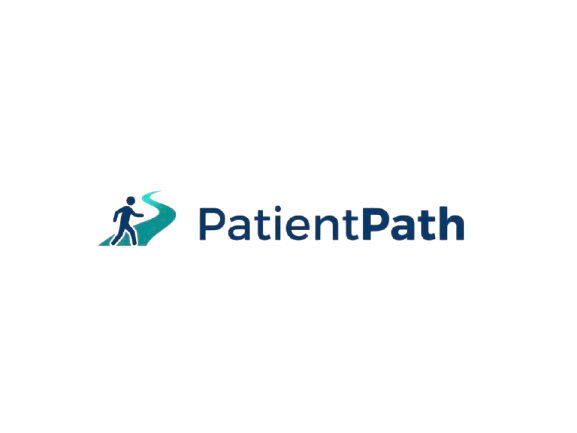
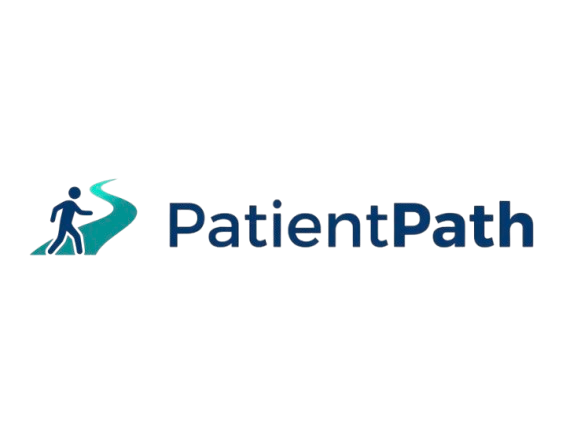
Improve responsive dashboard sidebar

Changed region(s): [[0.0312, 0.4203, 0.9359, 0.6005]]

diff --git a/app/ui/dashboard-shell.tsx b/app/ui/dashboard-shell.tsx
@@ -8,7 +8,7 @@ import { gsap } from 'gsap'
 import { logout } from '@/app/actions/auth'
 import type { DashboardRole } from '@/app/lib/dashboard-types'
 import { ROLE_LABELS } from '@/app/lib/roles'
-import { IconLogout } from '@/app/ui/icons'
+import { IconClose, IconLogout, IconMenu } from '@/app/ui/icons'
 import { NotificationBell } from '@/app/ui/notification-bell'
 
 type NavItem = {
@@ -43,17 +43,39 @@ export function DashboardShell({
     }
   }, [])
 
+  useEffect(() => {
+    if (!mobileOpen) return
+
+    const originalOverflow = document.body.style.overflow
+    document.body.style.overflow = 'hidden'
+
+    function handleKeyDown(event: KeyboardEvent) {
+      if (event.key === 'Escape') setMobileOpen(false)
+    }
+
+    window.addEventListener('keydown', handleKeyDown)
+
+    return () => {
+      document.body.style.overflow = originalOverflow
+      window.removeEventListener('keydown', handleKeyDown)
+    }
+  }, [mobileOpen])
+
   function isActive(href: string) {
     if (href === '/dashboard') return pathname === '/dashboard'
     return pathname.startsWith(href)
+  }
+
+  function closeMobileNav() {
+    setMobileOpen(false)
   }
 
   return (
     <div className="min-h-screen bg-background">
       <div className="flex min-h-screen w-full flex-col lg:flex-row">
         {/* Mobile header */}
-        <div className="flex items-center justify-between border-b border-border bg-surface px-4 py-3 lg:hidden">
-          <div className="flex items-center">
+        <div className="sticky top-0 z-30 flex items-center justify-between gap-3 border-b border-border bg-surface/95 px-4 py-3 shadow-sm backdrop-blur lg:hidden">
+          <Link href="/dashboard" onClick={closeMobileNav} className="flex min-w-0 items-center">
             <Image
               src="/PatientPath.png"
               alt="Logo"
@@ -61,89 +83,126 @@ export function DashboardShell({
               height={42}
               priority
               style={{ width: 'auto', height: 32 }}
-              className="h-8 w-auto object-contain"
+              className="h-8 max-w-[150px] object-contain"
             />
-          </div>
+          </Link>
           <div className="flex items-center gap-2">
             <NotificationBell />
             <button
-              onClick={() => setMobileOpen(!mobileOpen)}
-              className="rounded-lg p-2 text-muted hover:bg-surface-elevated hover:text-primary"
+              type="button"
+              onClick={() => setMobileOpen(true)}
+              aria-controls="dashboard-sidebar"
+              aria-expanded={mobileOpen}
+              aria-label="Open navigation menu"
+              className="inline-flex h-10 w-10 items-center justify-center rounded-lg border border-border text-muted transition-all hover:border-accent/40 hover:bg-surface-elevated hover:text-primary focus:outline-none focus:ring-2 focus:ring-accent/40"
             >
-              <svg className="h-5 w-5" fill="none" viewBox="0 0 24 24" strokeWidth={1.5} stroke="currentColor">
-                <path strokeLinecap="round" strokeLinejoin="round" d="M3.75 6.75h16.5M3.75 12h16.5m-16.5 5.25h16.5" />
-              </svg>
+              <IconMenu className="h-5 w-5" />
             </button>
           </div>
         </div>
 
+        <button
+          type="button"
+          aria-label="Close navigation menu"
+          onClick={() => setMobileOpen(false)}
+          className={`${mobileOpen ? 'block' : 'hidden'} fixed inset-0 z-40 bg-primary/35 backdrop-blur-[2px] lg:hidden`}
+        />
+
         {/* Sidebar */}
         <aside
+          id="dashboard-sidebar"
           ref={sidebarRef}
-          className={`${mobileOpen ? 'block' : 'hidden'} border-b border-border bg-surface px-4 py-4 shadow-sm lg:sticky lg:top-0 lg:flex lg:h-screen lg:w-64 lg:shrink-0 lg:flex-col lg:border-b-0 lg:border-r lg:px-4 lg:py-5`}
+          className={`${mobileOpen ? 'flex' : 'hidden'} fixed inset-y-0 left-0 z-50 h-dvh w-[calc(100vw-2rem)] max-w-80 flex-col border-r border-border bg-surface shadow-2xl lg:sticky lg:top-0 lg:z-auto lg:flex lg:h-screen lg:w-72 lg:max-w-none lg:shrink-0 lg:shadow-sm`}
         >
+          <div className="flex items-center justify-between gap-3 border-b border-border px-4 py-4 lg:hidden">
+            <Link href="/dashboard" onClick={closeMobileNav} className="flex min-w-0 items-center">
+              <Image
+                src="/PatientPath.png"
+                alt="Logo"
+                width={140}
+                height={42}
+                priority
+                style={{ width: 'auto', height: 32 }}
+                className="h-8 max-w-[150px] object-contain"
+              />
+            </Link>
+            <button
+              type="button"
+              onClick={() => setMobileOpen(false)}
+              aria-label="Close navigation menu"
+              className="inline-flex h-10 w-10 items-center justify-center rounded-lg border border-border text-muted transition-all hover:border-accent/40 hover:bg-surface-elevated hover:text-primary focus:outline-none focus:ring-2 focus:ring-accent/40"
+            >
+              <IconClose className="h-5 w-5" />
+            </button>
+          </div>
+
           {/* Logo */}
-          <div className="hidden lg:block">
-            <div className="flex flex-col items-center text-center gap-2 px-2 pb-5 border-b border-border">
+          <div className="hidden border-b border-border px-4 py-5 lg:block">
+            <Link href="/dashboard" onClick={closeMobileNav} className="flex flex-col items-center gap-2 text-center">
               <Image
                 src="/PatientPath.png"
                 alt="Logo"
                 width={150}
                 height={45}
                 priority
-                style={{ width: '100%', maxWidth: '130px', height: 'auto' }}
+                style={{ width: '100%', maxWidth: '140px', height: 'auto' }}
                 className="object-contain"
               />
-              <p className="text-[11px] text-muted px-1">{roleLabel}</p>
-            </div>
+              <span className="max-w-full text-balance text-xs text-muted">{roleLabel}</span>
+            </Link>
           </div>
 
           {/* Nav */}
-          <nav className="mt-4 flex flex-col gap-0.5">
-            {nav.map((item) => {
-              const active = isActive(item.href)
-              return (
-                <Link
-                  key={item.href}
-                  href={item.href}
-                  onClick={() => setMobileOpen(false)}
-                  className={`group flex items-center gap-3 rounded-lg px-3 py-2.5 text-sm font-medium transition-all ${
-                    active
-                      ? 'bg-accent/10 text-accent'
-                      : 'text-primary-soft hover:bg-surface-elevated hover:text-primary'
-                  }`}
-                >
-                  <span className={active ? 'text-accent' : 'text-muted group-hover:text-accent'}>{item.icon}</span>
-                  {item.label}
-                  {active && <div className="ml-auto h-1.5 w-1.5 rounded-full bg-accent" />}
-                </Link>
-              )
-            })}
+          <nav className="flex-1 overflow-y-auto px-3 py-4" aria-label="Dashboard navigation">
+            <div className="flex flex-col gap-1">
+              {nav.map((item) => {
+                const active = isActive(item.href)
+                return (
+                  <Link
+                    key={item.href}
+                    href={item.href}
+                    onClick={closeMobileNav}
+                    aria-current={active ? 'page' : undefined}
+                    className={`group flex min-h-11 items-center gap-3 rounded-lg px-3 py-2.5 text-sm font-medium leading-5 transition-all focus:outline-none focus:ring-2 focus:ring-accent/40 ${
+                      active
+                        ? 'bg-accent/10 text-accent'
+                        : 'text-primary-soft hover:bg-surface-elevated hover:text-primary'
+                    }`}
+                  >
+                    <span className={`shrink-0 ${active ? 'text-accent' : 'text-muted group-hover:text-accent'}`}>{item.icon}</span>
+                    <span className="min-w-0 flex-1 break-words">{item.label}</span>
+                    {active && <span className="h-1.5 w-1.5 shrink-0 rounded-full bg-accent" />}
+                  </Link>
+                )
+              })}
+            </div>
+
+            <div className="mt-4 border-t border-border pt-4">
+              <Link href="/support" onClick={closeMobileNav} className="block rounded-lg px-3 py-2.5 text-sm font-medium text-primary-soft transition-all hover:bg-surface-elevated hover:text-primary focus:outline-none focus:ring-2 focus:ring-accent/40">
+                Contact Support
+              </Link>
+              <Link href="/about" onClick={closeMobileNav} className="block rounded-lg px-3 py-2.5 text-sm font-medium text-primary-soft transition-all hover:bg-surface-elevated hover:text-primary focus:outline-none focus:ring-2 focus:ring-accent/40">
+                About
+              </Link>
+            </div>
           </nav>
 
-          <div className="mt-4 border-t border-border pt-4">
-            <Link href="/support" className="block rounded-lg px-3 py-2 text-sm font-medium text-primary-soft hover:bg-surface-elevated hover:text-primary">
-              Contact Support
-            </Link>
-            <Link href="/about" className="block rounded-lg px-3 py-2 text-sm font-medium text-primary-soft hover:bg-surface-elevated hover:text-primary">
-              About
-            </Link>
-          </div>
-
           {/* User section */}
-          <div className="mt-auto pt-5 hidden lg:block border-t border-border">
-            <div className="flex items-center justify-between px-2">
-              <div>
-                <p className="text-sm font-semibold text-primary">{username}</p>
+          <div className="border-t border-border px-4 py-4">
+            <div className="flex items-center justify-between gap-3">
+              <div className="min-w-0">
+                <p className="truncate text-sm font-semibold text-primary">{username}</p>
                 <p className="text-[11px] text-muted">{roleLabel}</p>
               </div>
-              <NotificationBell />
+              <div className="hidden lg:block">
+                <NotificationBell />
+              </div>
             </div>
 
             <form action={logout} className="mt-3">
               <button
                 type="submit"
-                className="flex w-full items-center justify-center gap-2 rounded-lg border border-border px-3 py-2 text-sm font-medium text-muted transition-all hover:border-danger/40 hover:bg-danger/5 hover:text-danger"
+                className="flex min-h-10 w-full items-center justify-center gap-2 rounded-lg border border-border px-3 py-2 text-sm font-medium text-muted transition-all hover:border-danger/40 hover:bg-danger/5 hover:text-danger focus:outline-none focus:ring-2 focus:ring-danger/20"
               >
                 <IconLogout className="w-4 h-4" />
                 Log out

diff --git a/app/reset-password/[token]/page.tsx b/app/reset-password/[token]/page.tsx
@@ -1,3 +1,4 @@
+import Image from 'next/image'
 import Link from 'next/link'
 import { ResetPasswordForm } from '@/app/ui/password-reset-forms'
 
@@ -15,7 +16,18 @@ export default async function ResetPasswordPage({
       <div className="mx-auto max-w-md space-y-6">
         <div>
           <Link href="/login" className="text-sm font-medium text-accent hover:text-accent-bright">Back to login</Link>
-          <h1 className="mt-4 text-3xl font-bold text-primary">Choose New Password</h1>
+          <div className="mt-4 mb-2">
+            <Image
+              src="/PatientPath.png"
+              alt="PatientPath"
+              width={200}
+              height={60}
+              priority
+              style={{ width: '100%', maxWidth: '180px', height: 'auto' }}
+              className="object-contain"
+            />
+          </div>
+          <h1 className="mt-2 text-3xl font-bold text-primary">Choose New Password</h1>
           <p className="mt-2 text-sm text-muted">Use the secure link from your reset email to set a new password.</p>
         </div>
         <ResetPasswordForm token={token} />

diff --git a/app/reset-password/page.tsx b/app/reset-password/page.tsx
@@ -1,3 +1,4 @@
+import Image from 'next/image'
 import Link from 'next/link'
 import { RequestPasswordResetForm } from '@/app/ui/password-reset-forms'
 
@@ -9,7 +10,18 @@ export default function ResetPasswordRequestPage() {
       <div className="mx-auto max-w-md space-y-6">
         <div>
           <Link href="/login" className="text-sm font-medium text-accent hover:text-accent-bright">Back to login</Link>
-          <h1 className="mt-4 text-3xl font-bold text-primary">Reset Password</h1>
+          <div className="mt-4 mb-2">
+            <Image
+              src="/PatientPath.png"
+              alt="PatientPath"
+              width={200}
+              height={60}
+              priority
+              style={{ width: '100%', maxWidth: '180px', height: 'auto' }}
+              className="object-contain"
+            />
+          </div>
+          <h1 className="mt-2 text-3xl font-bold text-primary">Reset Password</h1>
           <p className="mt-2 text-sm text-muted">Enter your email or username to receive a secure reset link.</p>
         </div>
         <RequestPasswordResetForm />

diff --git a/app/support/page.tsx b/app/support/page.tsx
@@ -1,3 +1,4 @@
+import Image from 'next/image'
 import Link from 'next/link'
 import { getSession } from '@/app/lib/session'
 import { SupportForm } from '@/app/ui/support-form'
@@ -14,7 +15,18 @@ export default async function SupportPage() {
           <Link href={session ? '/dashboard' : '/login'} className="text-sm font-medium text-accent hover:text-accent-bright">
             Back
           </Link>
-          <h1 className="mt-4 text-3xl font-bold text-primary">Contact Support</h1>
+          <div className="mt-4 mb-2">
+            <Image
+              src="/PatientPath.png"
+              alt="PatientPath"
+              width={200}
+              height={60}
+              priority
+              style={{ width: '100%', maxWidth: '180px', height: 'auto' }}
+              className="object-contain"
+            />
+          </div>
+          <h1 className="mt-2 text-3xl font-bold text-primary">Contact Support</h1>
           <p className="mt-2 text-sm text-muted">
             Submit a technical issue or workflow support request for the PatientPath team.
           </p>

diff --git a/app/about/page.tsx b/app/about/page.tsx
@@ -1,3 +1,4 @@
+import Image from 'next/image'
 import Link from 'next/link'
 import { getSession } from '@/app/lib/session'
 
@@ -13,7 +14,17 @@ export default async function AboutPage() {
           <Link href={session ? '/dashboard' : '/login'} className="text-sm font-medium text-accent hover:text-accent-bright">
             Back
           </Link>
-          <h1 className="mt-4 text-4xl font-bold text-primary">PatientPath</h1>
+          <div className="mt-4">
+            <Image
+              src="/PatientPath.png"
+              alt="PatientPath"
+              width={260}
+              height={78}
+              priority
+              style={{ width: '100%', maxWidth: '240px', height: 'auto' }}
+              className="object-contain"
+            />
+          </div>
           <p className="mt-3 max-w-2xl text-primary-soft">
             A digital medical referral network for the University of Jordan student clinic and Jordan University Hospital.
           </p>

diff --git a/app/ui/icons.tsx b/app/ui/icons.tsx
@@ -38,5 +38,6 @@ export {
   PauseCircle as IconPause,
   CheckCheck as IconCheckAll,
   AlertCircle as IconAlert,
+  Menu as IconMenu,
   X as IconClose,
 } from 'lucide-react'
